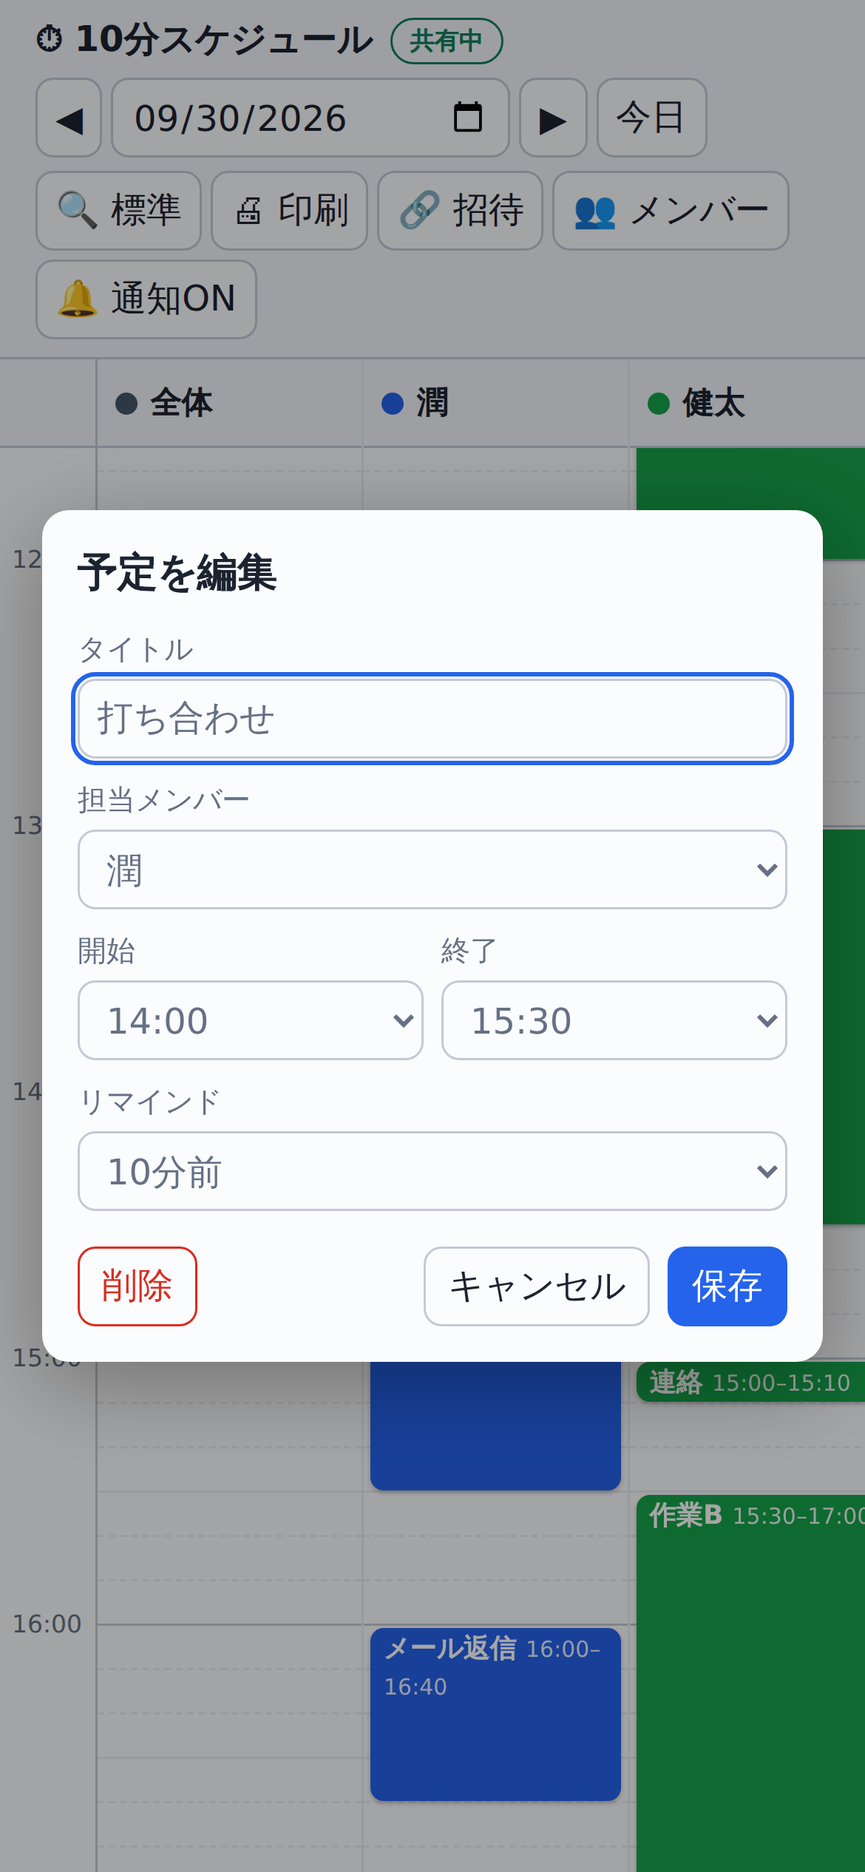
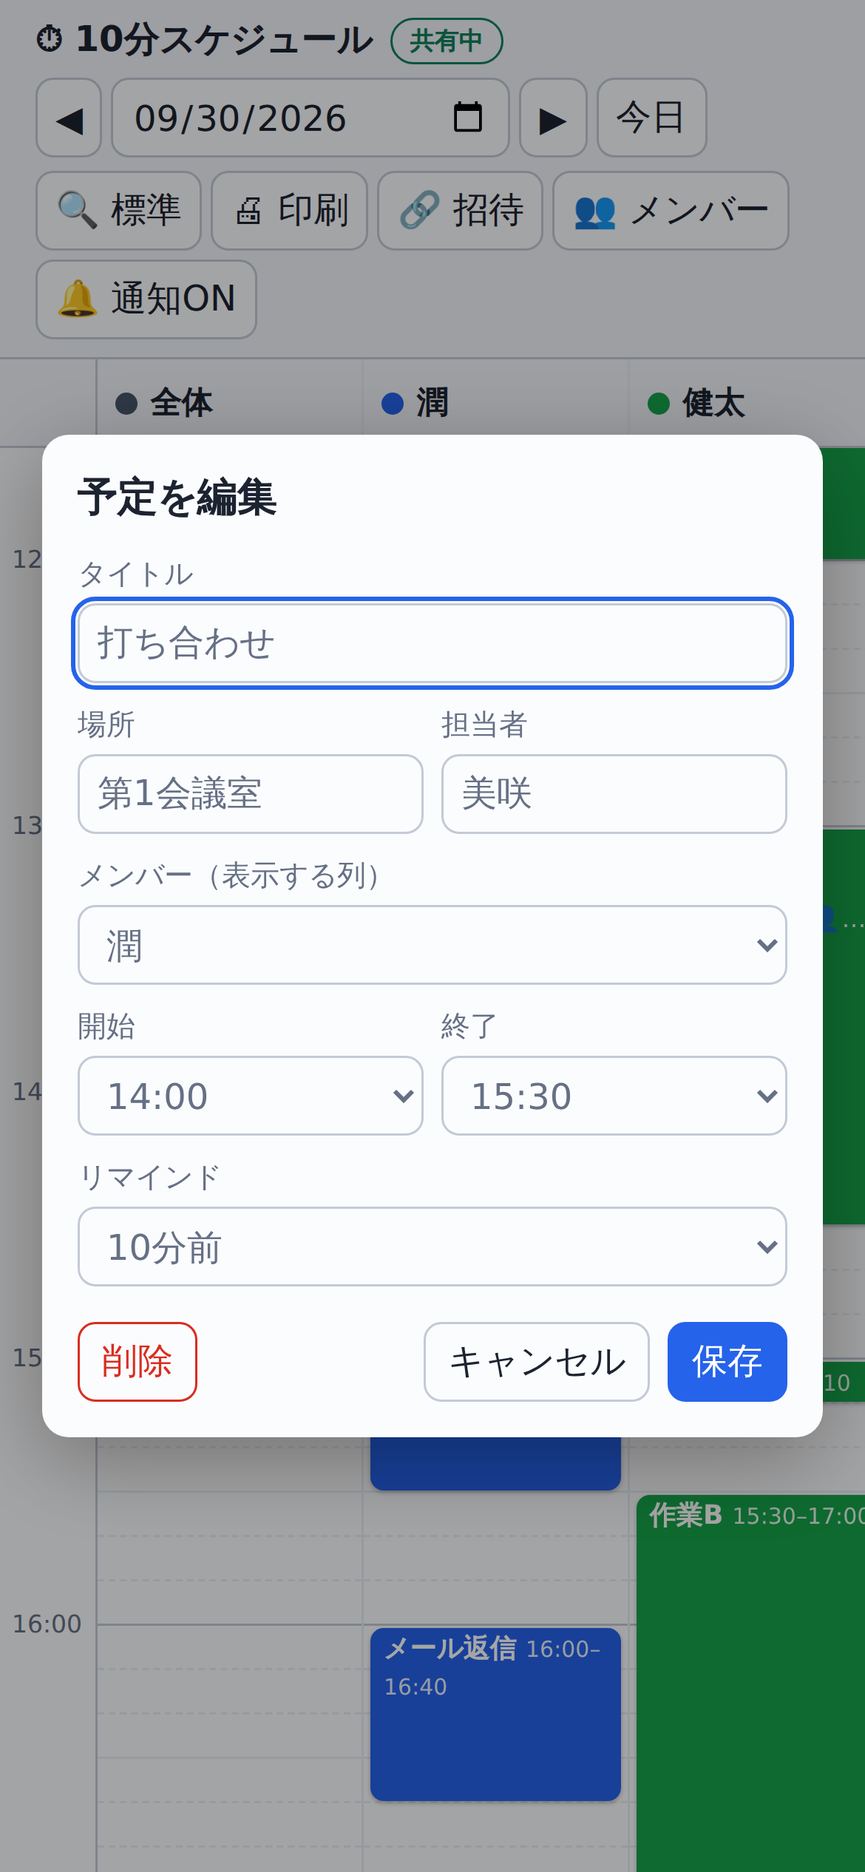
Add place and person-in-charge fields to events
- Editor: optional 場所 (40 chars) and 担当者 (20 chars); the column
  selector is relabelled "メンバー（表示する列）"
- Event blocks show "📍場所 👤担当者"; printed sheets add "場所：… ／ 担当：…"
- Empty fields are not sent, so boards with the previous rules keep saving
- firestore.rules: allow and validate the two optional fields
- Fix dialog inputs overflowing on phones; tests now 57

Claude-Session: https://claude.ai/code/session_01HxEd5oszLPg2p3dJRWE6F7

Changed region(s): [[0.0308, 0.2184, 0.9538, 0.78], [0.4615, 0.4992, 0.6769, 0.5928], [0.9538, 0.468, 0.9846, 0.4992]]

diff --git a/index.html b/index.html
@@ -94,6 +94,7 @@
     line-height: 1.35; overflow: hidden; color: #fff; cursor: pointer; z-index: 1;
     box-shadow: 0 1px 2px rgba(0,0,0,.25); }
   .ev small { opacity: .9; margin-left: 4px; }
+  .ev .evmeta { display: block; margin-left: 0; font-size: 11px; opacity: .95; white-space: nowrap; overflow: hidden; text-overflow: ellipsis; }
   .preview { position: absolute; left: 2px; right: 2px; border: 2px dashed var(--accent);
     background: var(--accent-soft); border-radius: 6px; pointer-events: none; z-index: 2;
     font-size: 11px; color: var(--accent); padding: 0 4px; font-weight: 600; }
@@ -112,6 +113,7 @@
   label { display: grid; gap: 4px; font-size: 13px; color: var(--muted); }
   .row { display: flex; flex-wrap: wrap; gap: 8px; align-items: center; }
   .row > * { flex: 1; min-width: 90px; }
+  dialog label > input[type=text], dialog label > select { width: 100%; min-width: 0; }
   .actions { display: flex; flex-wrap: wrap; gap: 8px; justify-content: flex-end; margin-top: 6px; }
   .actions .danger { margin-right: auto; }
   .member-row { display: flex; gap: 6px; align-items: center; }
@@ -168,7 +170,11 @@
   <form id="editorForm">
     <h2 id="editorTitle">予定を追加</h2>
     <label>タイトル<input type="text" id="fTitle" placeholder="例: 打ち合わせ" maxlength="60"></label>
-    <label>担当メンバー<select id="fMember"></select></label>
+    <div class="row">
+      <label>場所<input type="text" id="fPlace" placeholder="例: 第1会議室" maxlength="40"></label>
+      <label>担当者<input type="text" id="fPerson" placeholder="例: 田中" maxlength="20"></label>
+    </div>
+    <label>メンバー（表示する列）<select id="fMember"></select></label>
     <div class="row">
       <label>開始<select id="fStart"></select></label>
       <label>終了<select id="fEnd"></select></label>
@@ -317,6 +323,8 @@
       memberId: String(d.memberId ?? ''),
       start, end,
       title: String(d.title ?? '').slice(0, 60),
+      place: String(d.place ?? '').slice(0, 40),
+      person: String(d.person ?? '').slice(0, 20),
       remind: [0, 5, 10, 15, 30, 60].includes(Number(d.remind)) ? Number(d.remind) : 0,
       updatedAt: Number(d.updatedAt) || 0,
     };
@@ -364,6 +372,13 @@
 
   // ===== データ操作（共有モードは db へ、この端末モードは localStorage へ） =====
   const body = (o) => { const { id, ...rest } = o; return rest; };
+  // 場所・担当者は空なら保存しない（古いルールのままの予定表でも保存できるように）
+  const eventBody = (ev) => {
+    const b = body(ev);
+    if (!b.place) delete b.place;
+    if (!b.person) delete b.person;
+    return b;
+  };
 
   async function dbWrite(fn) {
     try { await fn(); return true; } catch (e) {
@@ -393,7 +408,7 @@
   }
 
   async function putEvent(ev) {
-    if (mode === 'shared') return dbWrite(() => db.collection('events').doc(ev.id).set(body(ev)));
+    if (mode === 'shared') return dbWrite(() => db.collection('events').doc(ev.id).set(eventBody(ev)));
     const i = state.events.findIndex((x) => x.id === ev.id);
     if (i >= 0) state.events[i] = ev; else state.events.push(ev);
     saveLocal(); render(); return true;
@@ -427,7 +442,7 @@
       for (const ev of state.events) if (!(await dbWrite(() => db.collection('events').doc(ev.id).delete()))) return false;
       for (const m of state.members) if (!(await dbWrite(() => db.collection('members').doc(m.id).delete()))) return false;
       for (const m of next.members) if (!(await dbWrite(() => db.collection('members').doc(m.id).set(body(m))))) return false;
-      for (const ev of next.events) if (!(await dbWrite(() => db.collection('events').doc(ev.id).set(body(ev))))) return false;
+      for (const ev of next.events) if (!(await dbWrite(() => db.collection('events').doc(ev.id).set(eventBody(ev))))) return false;
       return true;
     }
     state = next; saveLocal(); render(); return true;
@@ -503,8 +518,10 @@
         el.style.top = `calc(var(--h) * ${ev.start} + 1px)`;
         el.style.height = `calc(var(--h) * ${ev.end - ev.start} - 2px)`;
         el.style.background = m.color;
-        el.title = `${ev.title || '(無題)'} ${slotLabel(ev.start)}–${slotLabel(ev.end)}`;
-        el.innerHTML = `<b>${esc(ev.title || '(無題)')}</b><small>${slotLabel(ev.start)}–${slotLabel(ev.end)}${ev.remind ? ' 🔔' : ''}</small>`;
+        const meta = eventMeta(ev);
+        el.title = `${ev.title || '(無題)'} ${slotLabel(ev.start)}–${slotLabel(ev.end)}${meta ? '\n' + meta : ''}`;
+        el.innerHTML = `<b>${esc(ev.title || '(無題)')}</b><small>${slotLabel(ev.start)}–${slotLabel(ev.end)}${ev.remind ? ' 🔔' : ''}</small>` +
+          (meta ? `<small class="evmeta">${esc(meta)}</small>` : '');
         el.addEventListener('click', () => openEditor(ev));
         slots.append(el);
       }
@@ -516,6 +533,11 @@
       if (s) showPreview(s, anchor.slot, anchor.slot + 1); else anchor = null;
     }
     drawNowLine();
+  }
+
+  // 予定ブロックに添える「📍場所 👤担当者」
+  function eventMeta(ev) {
+    return [ev.place && `📍${ev.place}`, ev.person && `👤${ev.person}`].filter(Boolean).join('  ');
   }
 
   function showPreview(slots, a, b) {
@@ -636,6 +658,8 @@
     editingId = ev.id || null;
     $('#editorTitle').textContent = editingId ? '予定を編集' : '予定を追加';
     $('#fTitle').value = ev.title || '';
+    $('#fPlace').value = ev.place || '';
+    $('#fPerson').value = ev.person || '';
     $('#fMember').innerHTML = state.members.map((m) => `<option value="${esc(m.id)}">${esc(m.name)}</option>`).join('');
     $('#fMember').value = ev.memberId;
     $('#fStart').value = ev.start;
@@ -654,12 +678,14 @@
     err.hidden = true;
     const data = {
       title: $('#fTitle').value.trim(),
+      place: $('#fPlace').value.trim(),
+      person: $('#fPerson').value.trim(),
       memberId: $('#fMember').value,
       start: Number($('#fStart').value),
       end: Number($('#fEnd').value),
       remind: Number($('#fRemind').value),
     };
-    if (!state.members.some((m) => m.id === data.memberId)) return showErr('担当メンバーを選んでください。');
+    if (!state.members.some((m) => m.id === data.memberId)) return showErr('メンバー（表示する列）を選んでください。');
     if (data.end <= data.start) return showErr('終了時刻は開始時刻より後にしてください。');
     const target = editingId && state.events.find((x) => x.id === editingId);
     if (editingId && !target) return showErr('この予定は他の人が削除しました。キャンセルして画面を確認してください。');
@@ -971,13 +997,19 @@
         g.save(); g.beginPath(); g.rect(ex, ey, ew, eh); g.clip();
         g.fillStyle = '#ffffff';
         const title = ev.title || '(無題)', time = `${slotLabel(ev.start)}–${slotLabel(ev.end)}`;
+        const meta = [ev.place && `場所：${ev.place}`, ev.person && `担当：${ev.person}`].filter(Boolean).join(' ／ ');
         const small = Math.floor(Math.min(fs, (eh - 4) * 0.8));   // 枠が低い予定は文字を縮める
         if (small < 12) {
           // 文字が読めない高さなので色帯のみ
-        } else if (eh >= fs * 2.6) {
+        } else if (eh >= fs * 3.9 && meta) {
           g.textBaseline = 'top';
           g.font = `bold ${fs}px ${SHEET_FONT}`; fitText(g, title, ex + 12, ey + 8, ew - 24);
           g.font = `${Math.round(fs * 0.85)}px ${SHEET_FONT}`; fitText(g, time, ex + 12, ey + 8 + fs * 1.3, ew - 24);
+          fitText(g, meta, ex + 12, ey + 8 + fs * 2.5, ew - 24);
+        } else if (eh >= fs * 2.6) {
+          g.textBaseline = 'top';
+          g.font = `bold ${fs}px ${SHEET_FONT}`; fitText(g, title, ex + 12, ey + 8, ew - 24);
+          g.font = `${Math.round(fs * 0.85)}px ${SHEET_FONT}`; fitText(g, meta ? `${time}  ${meta}` : time, ex + 12, ey + 8 + fs * 1.3, ew - 24);
         } else {
           g.textBaseline = 'middle';
           g.font = `bold ${small}px ${SHEET_FONT}`; fitText(g, `${title}  ${time}`, ex + 12, ey + eh / 2, ew - 24);

diff --git a/tools/make_examples.js b/tools/make_examples.js
@@ -10,19 +10,19 @@ const members=[
   {id:'m4',name:'翔',color:'#ea580c',order:4},
 ];
 const t=(h,m)=>h*6+m/10; let n=0;
-const ev=(memberId,sh,sm,eh,em,title,remind=10)=>({id:'e'+(n++),date:DATE,memberId,start:t(sh,sm),end:t(eh,em),title,remind,updatedAt:1});
+const ev=(memberId,sh,sm,eh,em,title,remind=10,place='',person='')=>({id:'e'+(n++),date:DATE,memberId,start:t(sh,sm),end:t(eh,em),title,place,person,remind,updatedAt:1});
 const events=[
-  ev('all',9,0,9,30,'朝ミーティング'), ev('all',12,0,13,0,'昼休み',0), ev('all',17,30,18,0,'片付け・振り返り'),
-  ev('m1',6,30,6,40,'起床',0), ev('m1',8,0,8,50,'移動',0), ev('m1',9,30,11,0,'資料作成',0), ev('m1',13,0,13,20,'電話',5), ev('m1',14,0,15,30,'打ち合わせ'), ev('m1',16,0,16,40,'メール返信',0),
-  ev('m2',8,30,9,0,'準備',0), ev('m2',9,30,10,10,'買い出し',15), ev('m2',10,30,12,0,'作業A',0), ev('m2',13,0,14,30,'外回り',30), ev('m2',15,0,15,10,'連絡',5), ev('m2',15,30,17,0,'作業B',0),
+  ev('all',9,0,9,30,'朝ミーティング',10,'集会室','潤'), ev('all',12,0,13,0,'昼休み',0), ev('all',17,30,18,0,'片付け・振り返り'),
+  ev('m1',6,30,6,40,'起床',0), ev('m1',8,0,8,50,'移動',0), ev('m1',9,30,11,0,'資料作成',0), ev('m1',13,0,13,20,'電話',5), ev('m1',14,0,15,30,'打ち合わせ',10,'第1会議室','美咲'), ev('m1',16,0,16,40,'メール返信',0),
+  ev('m2',8,30,9,0,'準備',0), ev('m2',9,30,10,10,'買い出し',15), ev('m2',10,30,12,0,'作業A',0,'倉庫',''), ev('m2',13,0,14,30,'外回り',30,'駅前エリア','健太'), ev('m2',15,0,15,10,'連絡',5), ev('m2',15,30,17,0,'作業B',0),
   ev('m3',9,30,10,0,'受付',0), ev('m3',10,0,11,40,'接客',0), ev('m3',13,0,13,50,'会議準備'), ev('m3',14,0,15,30,'打ち合わせ'), ev('m3',16,0,17,20,'発送作業',0),
-  ev('m4',10,0,10,30,'出発',10), ev('m4',11,0,12,0,'現場確認',0), ev('m4',13,0,14,0,'作業',0), ev('m4',14,10,14,20,'休憩',0), ev('m4',15,0,16,30,'報告書',0),
+  ev('m4',10,0,10,30,'出発',10), ev('m4',11,0,12,0,'現場確認',0,'A棟','翔'), ev('m4',13,0,14,0,'作業',0), ev('m4',14,10,14,20,'休憩',0), ev('m4',15,0,16,30,'報告書',0),
 ];
 (async()=>{
   const b=await chromium.launch();
   const mk=async(opts)=>{const c=await b.newContext(opts); await c.addInitScript(({s})=>{Object.defineProperty(window,'FIREBASE_CONFIG',{get:()=>null,set(){}}); localStorage.setItem('tenmin-schedule-v1',s); localStorage.setItem('tenmin-zoom','1');},{s:JSON.stringify({members,events})}); const p=await c.newPage(); await p.goto('file://'+require('path').resolve(__dirname,'..','index.html')); await p.waitForSelector('.col');
     await p.evaluate((d)=>{const i=document.querySelector('#date'); i.value=d; i.dispatchEvent(new Event('change'));},DATE);
-    await p.evaluate(()=>{document.querySelector('#status').textContent='共有中'; document.querySelector('#status').className='status shared'; document.querySelector('#invite').hidden=false; document.querySelector('#export').hidden=document.querySelector('#import').hidden=true; document.querySelector('#notif').textContent='🔔 通知ON';});
+    await p.evaluate(()=>{document.querySelector('#status').textContent='共有中'; document.querySelector('#status').className='status shared'; document.querySelector('#invite').hidden=false; document.querySelector('#export').hidden=document.querySelector('#import').hidden=true; document.querySelector('#notif').textContent='🔔 通知ON'; document.querySelectorAll('.nowline').forEach(n=>n.remove());});
     return p;};
   // スマホ画面
   let p=await mk({viewport:{width:390,height:844},deviceScaleFactor:3,hasTouch:true,isMobile:true});

diff --git a/tests/e2e.js b/tests/e2e.js
@@ -86,8 +86,11 @@ const toastText = (page) => page.$eval('#toast', (t) => t.textContent);
     check('ドラッグで予定画面が開き、時刻が入る',
       (await page.$eval('#editor', (d) => d.open)) && (await page.inputValue('#fStart')) === '36' && (await page.inputValue('#fEnd')) === '39');
     await page.fill('#fTitle', 'ドラッグ予定');
+    await page.fill('#fPlace', '第1会議室');
+    await page.fill('#fPerson', '田中');
     await page.click('#editorForm button[type=submit]');
     check('保存した予定が表示される', (await evTexts(page)).some((t) => t.includes('ドラッグ予定06:00–06:30')));
+    check('場所と担当者が予定に表示される', (await evTexts(page)).some((t) => t.includes('📍第1会議室') && t.includes('👤田中')));
 
     // タップ2回で作成（2列目）
     ({ r, h } = await slotBox(page, 1));
@@ -119,6 +122,9 @@ const toastText = (page) => page.$eval('#toast', (t) => t.textContent);
     await page.fill('#fTitle', 'ドラッグ予定（変更）');
     await page.click('#editorForm button[type=submit]');
     check('編集が反映される', (await evTexts(page)).some((t) => t.includes('ドラッグ予定（変更）')));
+    await page.click('.ev >> text=ドラッグ予定（変更）');
+    check('編集画面に場所と担当者が入っている', (await page.inputValue('#fPlace')) === '第1会議室' && (await page.inputValue('#fPerson')) === '田中');
+    await page.click('#fCancel');
 
     // 削除（確認でキャンセル→削除）
     await page.click('.ev >> text=タップ予定');
@@ -387,11 +393,17 @@ const toastText = (page) => page.$eval('#toast', (t) => t.textContent);
     await b.waitForSelector('.ev');
     check('招待リンクを開いた人に同じ予定が見える', (await evTexts(b)).some((t) => t.includes('リンク共有の予定09:00–09:30')));
     await b.click('.ev');
+    check('場所・担当者が空なら保存データに含めない', [...store.values()].some((f) => f.title && !('place' in f) && !('person' in f)));
     await b.fill('#fTitle', 'Bが変更');
+    await b.fill('#fPlace', '体育館');
+    await b.fill('#fPerson', '佐藤');
     await b.click('#editorForm button[type=submit]');
     const synced = await a.waitForFunction(() => [...document.querySelectorAll('.ev')].some((e) => e.textContent.includes('Bが変更')),
       null, { timeout: 8000 }).then(() => true, () => false);
     check('Bの変更が数秒以内にAに反映される', synced);
+    check('場所・担当者もサーバーに保存され、Aに表示される',
+      [...store.values()].some((f) => f.place && f.place.stringValue === '体育館' && f.person.stringValue === '佐藤')
+      && (await evTexts(a)).some((t) => t.includes('📍体育館') && t.includes('👤佐藤')));
 
     const c = await ctx.newPage();
     await c.goto(base);

diff --git a/docs/SUMMARY.md b/docs/SUMMARY.md
@@ -11,7 +11,8 @@
   - 現在時刻の赤線、マス目の大きさの切り替え（小・標準・大）
 - **予定の入力**
   - スマホは開始マス→終了マスの2回タップ、PCはドラッグ
-  - 入力画面で、タイトル・担当メンバー・時刻・リマインドを設定
+  - 入力画面で、タイトル・場所・担当者・メンバー（表示する列）・時刻・リマインドを設定
+  - 予定のブロックに「📍場所 👤担当者」を表示し、印刷にも載る
   - 同じ人の予定が重なると保存できず、理由が表示される
 - **メンバー管理**：名前・色の変更、追加、削除。「全体」の列を作って全員の予定を入れる使い方もできる
 - **共有**
@@ -50,7 +51,7 @@
   - `README.md`：使い方
   - `docs/SETUP.md`：公開手順
   - `docs/examples/`：画面例と印刷例の画像
-  - `tests/e2e.js`：動作テスト（53項目）
+  - `tests/e2e.js`：動作テスト（57項目）
 
 ---
 
@@ -78,7 +79,7 @@
 - 左端に時刻列（1時間ごとに「09:00」の形で表示）、上端にメンバー名の見出し。どちらもスクロールしても固定（position: sticky）
 - 罫線は 10分=点線、30分=薄い実線、1時間=濃い実線
 - 各メンバーの列は最低幅 150px（スマホは 120px）。人数が多いときは表だけ横スクロール（ページ全体は横にはみ出さない）
-- 予定はメンバーの色の角丸ブロックで、タイトル・「09:00–09:30」の時刻・リマインドありなら🔔を表示
+- 予定はメンバーの色の角丸ブロックで、タイトル・「09:00–09:30」の時刻・リマインドありなら🔔、場所・担当者があれば「📍場所 👤担当者」を表示
 - 今日を表示しているときは、現在時刻に赤い横線を引き、1分ごとに更新
 - 開いたとき・「今日」ボタンで、現在時刻の1時間前あたりまで自動スクロール
 - ズームボタンでマスの高さを 小12px／標準20px／大32px に切り替え（CSS 変数で管理、端末ごとに記憶）
@@ -94,7 +95,7 @@
   ドラッグだと縦スクロールとぶつかるため、タッチでは2タップ方式にする。touch-action: pan-x pan-y でスクロールはブラウザに任せ、指が8px以上動いたらタップ扱いしない
 - 1回目のタップ後は「開始 09:00 を選択 → 終了のマスをタップ」とトースト表示。Esc キーで取り消し
 - 予定ブロックをタップ／クリックすると編集画面
-- 入力画面（<dialog>）：タイトル（60文字まで）、担当メンバー、開始、終了（10分刻みのセレクト）、リマインド（なし／5／10／15／30／60分前、初期値10分前）、保存・キャンセル・削除（編集時のみ）
+- 入力画面（<dialog>）：タイトル（60文字まで）、場所（40文字まで・任意）、担当者名（20文字まで・任意）、メンバー（表示する列）、開始、終了（10分刻みのセレクト）、リマインド（なし／5／10／15／30／60分前、初期値10分前）、保存・キャンセル・削除（編集時のみ）
 - 保存前のチェック（エラーは入力画面の中に赤字で表示）：
   - 終了が開始より後であること
   - 同じメンバー・同じ日で時間が重なる予定がないこと（重なる予定のタイトルと時刻を表示）
@@ -114,7 +115,7 @@
 - 「🔗 招待」：navigator.share が使えれば共有シートを開き、使えなければリンクとコピーボタンのダイアログを表示。「リンクを知っている人は誰でも編集できるので仲間内だけで共有してください」と注意書き
 - データの場所：
   - boards/{予定表ID}/members/{メンバーID} … name(文字列), color(#RRGGBB), order(数値)
-  - boards/{予定表ID}/events/{予定ID} … date(YYYY-MM-DD), memberId, start(整数0-143), end(整数1-144), title, remind(整数), updatedAt(数値)
+  - boards/{予定表ID}/events/{予定ID} … date(YYYY-MM-DD), memberId, start(整数0-143), end(整数1-144), title, place(任意), person(任意), remind(整数), updatedAt(数値)。place・person は空なら送らない
   - boards/{予定表ID}/meta/rev … rev(整数・更新番号)
 - 【重要】Firebase の公式 JavaScript SDK は使わず、Firestore の REST API を fetch で直接呼ぶこと。
   理由：SDK のストリーミング通信は回線によって途中で切られ、保存がサーバーに届かないのに画面上は保存できたように見える事故が起きるため。
@@ -157,13 +158,15 @@ service cloud.firestore {
     }
     match /boards/{boardId}/events/{eventId} {
       allow read, delete: if true;
-      allow create, update: if request.resource.data.keys().hasOnly(['date', 'memberId', 'start', 'end', 'title', 'remind', 'updatedAt'])
+      allow create, update: if request.resource.data.keys().hasOnly(['date', 'memberId', 'start', 'end', 'title', 'place', 'person', 'remind', 'updatedAt'])
         && request.resource.data.date is string && request.resource.data.date.matches('^[0-9]{4}-[0-9]{2}-[0-9]{2}$')
         && request.resource.data.memberId is string && request.resource.data.memberId.size() <= 64
         && request.resource.data.start is int && request.resource.data.start >= 0 && request.resource.data.start < 144
         && request.resource.data.end is int && request.resource.data.end > request.resource.data.start
         && request.resource.data.end <= 144
         && request.resource.data.title is string && request.resource.data.title.size() <= 60
+        && (!('place' in request.resource.data) || (request.resource.data.place is string && request.resource.data.place.size() <= 40))
+        && (!('person' in request.resource.data) || (request.resource.data.person is string && request.resource.data.person.size() <= 20))
         && request.resource.data.remind in [0, 5, 10, 15, 30, 60]
         && request.resource.data.updatedAt is number;
     }
@@ -183,7 +186,7 @@ service cloud.firestore {
   - 初期値：予定のある範囲を含む時間帯（最低 8:00〜20:00）、メンバー5人以上なら横
 - canvas に A4・300dpi 相当（縦 2480×3508px、横 3508×2480px）で描画して PNG にする
   - 見出し「2026年9月30日（水）のスケジュール」、時間帯と「1マス＝10分」、出力日時
-  - メンバー名の見出し（色の丸付き）、時刻、罫線（1時間=濃い線、30分=薄い線、10分=点線）、予定ブロック（タイトルと時刻）
+  - メンバー名の見出し（色の丸付き）、時刻、罫線（1時間=濃い線、30分=薄い線、10分=点線）、予定ブロック（タイトル・時刻・「場所：◯ ／ 担当：◯」）
   - 文字は枠からはみ出さないよう、はみ出す分は「…」で省略し、各列・各予定の範囲で clip する
   - 低い予定は文字を小さくし、それでも12px未満になるなら色の帯だけにする
 - 【重要】1ページに載せる人数の上限は 縦6人／横10人。超えたらページを分け、人数は均等に割り振る（例：20人・縦 → 5人×4ページ）。見出しに「（1/4）」を付け、「◯人ずつ◯ページに分けて出力します」と表示

diff --git a/README.md b/README.md
@@ -43,5 +43,5 @@
 - `firestore.rules` … Firestore のアクセスルール（Firebase コンソールに貼り付け）
 - `tools/build_artifact.py <出力パス>` … claude.ai 公開用の本体部分を切り出す
 - `tests/e2e.js` … 動作テスト（Playwright + Chromium）。`node tests/e2e.js` で実行
-  - この端末モード・スマホ幅・claude.ai 共有モード・Firebase モード（いずれも疑似サーバーで2人同時編集を再現）の計53項目
+  - この端末モード・スマホ幅・claude.ai 共有モード・Firebase モード（いずれも疑似サーバーで2人同時編集を再現）の計57項目
 - 設計メモ: [docs/DESIGN.md](docs/DESIGN.md)（要件整理・技術構成・UI・通知方針・本番化手順）
